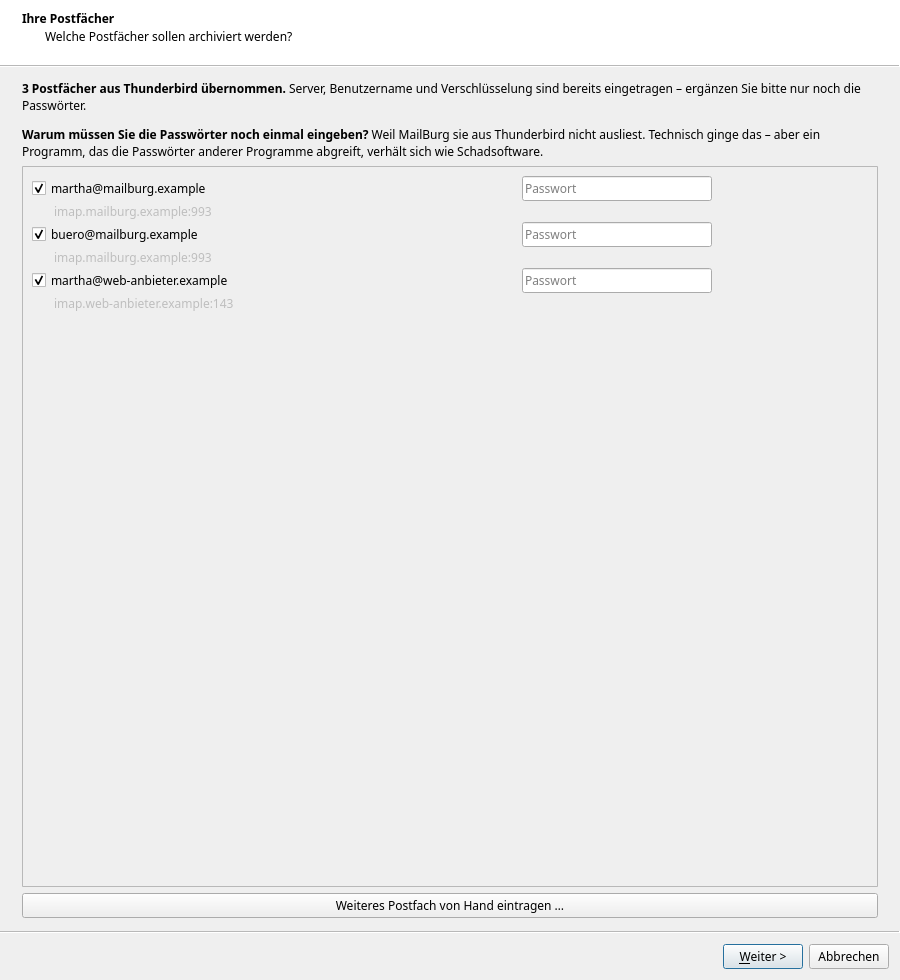
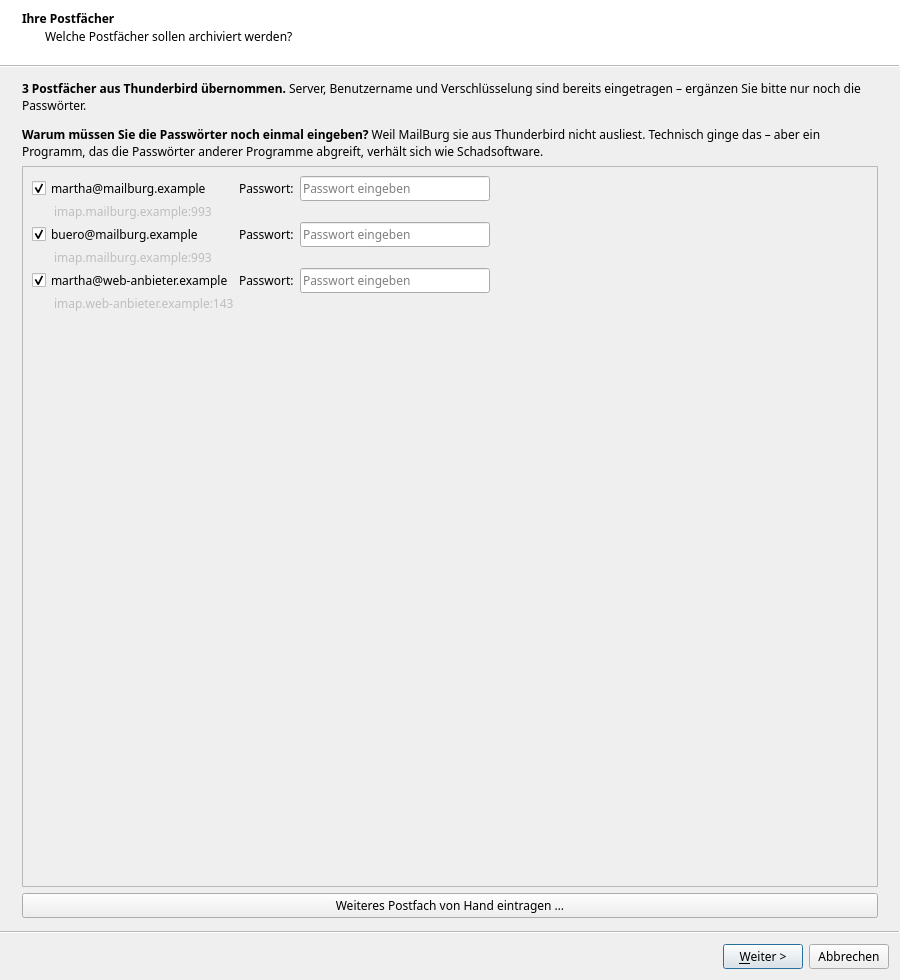
Erstes Nutzer-Feedback: drei Punkte behoben
Ein Anwender aus dem Linux-Guides-Forum hat MailBurg zum ersten Mal
eingerichtet und vier Dinge gemeldet. Drei davon sind erledigt.

**Die DBus-Meldung beim ersten Start.**

    qt.qpa.services: Failed to register with host portal
    QDBusError(... "Could not register app ID: Connection already
    associated with an application ID")

setDesktopFileName ist eine statische Methode und stand nach der
Erzeugung der QApplication. Qt meldet die Anwendung damit beim Portal
an; beim zweiten Anlauf war die DBus-Verbindung laengst registriert.
Jetzt steht die Kennung davor.

Harmlos war die Meldung immer - sie steht aber als Erstes im Terminal,
wenn jemand das Programm zum ersten Mal startet, und wer ein
Archivprogramm ausprobiert, liest so etwas als schlechtes Vorzeichen.

**Der Knopf zur Ordnerwahl war zu uebersehen.** Wortlaut: "haette ich
fast uebersehen". Er heisst jetzt "Ordner auswaehlen ...", hat ein
Ordnersymbol und ist der Vorgabeknopf der Seite. Wo das Archiv liegt,
ist die wichtigste Entscheidung des ganzen Assistenten - wer den Knopf
nicht findet, nimmt den Vorschlag, statt zu waehlen.

**Die Passwortfelder gingen unter.** Sie standen weit rechts vom
Kontonamen, weil sich die Namensspalte dehnte und die Luecke ueber den
halben Dialog klaffte. Jetzt stehen sie daneben, mit der Beschriftung
"Passwort:" davor. Wer sie nicht als Eingabe erkennt, klickt weiter und
steht danach vor einem Abruf, der nichts holt.
[…]

diff --git a/mailburg/ui/assistent.py b/mailburg/ui/assistent.py
@@ -28,6 +28,7 @@ from PySide6.QtWidgets import (
     QLineEdit,
     QMessageBox,
     QPushButton,
+    QStyle,
     QRadioButton,
     QScrollArea,
     QSpinBox,
@@ -338,7 +339,24 @@ class ArchivSeite(QWizardPage):
         # Damit Vorlesehilfen etwas anzusagen haben.
         self.pfad.setAccessibleName("Ort des Archivs")
 
-        blaettern = QPushButton("Auswählen …")
+        # **Er sah aus wie ein Beiwerk und ist der Hauptweg.** Ein
+        # Anwender aus dem Linux-Guides-Forum hat ihn beim ersten
+        # Einrichten fast übersehen. Das ist gravierender, als es klingt:
+        # Wo das Archiv liegt, ist die wichtigste Entscheidung des ganzen
+        # Assistenten – und wer den Knopf nicht findet, nimmt den
+        # Vorschlag, statt zu wählen.
+        #
+        # Ein Symbol und ein deutlicherer Text kosten nichts. Als
+        # Vorgabeknopf der Seite wird er außerdem hervorgehoben
+        # dargestellt.
+        blaettern = QPushButton("Ordner auswählen …")
+        blaettern.setIcon(
+            self.style().standardIcon(QStyle.SP_DirOpenIcon)
+        )
+        blaettern.setDefault(True)
+        blaettern.setToolTip(
+            "Einen anderen Ordner für das Archiv wählen"
+        )
         blaettern.clicked.connect(self._waehlen)
 
         zeile = QHBoxLayout()
@@ -711,9 +729,13 @@ class KontoZeile(QWidget):
         # Hälfte außerhalb, und man rollt waagerecht.
         self.beschreibung.setIndent(22)
 
+        # **Deutlich als Eingabefeld erkennbar.** Auch das kam aus dem
+        # Forum: Zwischen Ankreuzfeld und Zustandstext ging es unter.
+        # Wer es nicht als Feld erkennt, klickt weiter – und steht dann
+        # vor einem Abruf, der ohne Passwort nichts holt.
         self.passwort = QLineEdit()
         self.passwort.setEchoMode(QLineEdit.Password)
-        self.passwort.setPlaceholderText("Passwort")
+        self.passwort.setPlaceholderText("Passwort eingeben")
         self.passwort.setAccessibleName(f"Passwort für {konto.name}")
         self.passwort.setMinimumWidth(190)
         sichtbarkeit_anbieten(self.passwort)
@@ -722,13 +744,22 @@ class KontoZeile(QWidget):
         self.zustand.setWordWrap(True)
         self.zustand.setMinimumWidth(150)
 
+        # **Eine Beschriftung vor dem Feld.** Ohne sie stand dort ein
+        # leeres Kästchen weit rechts vom Kontonamen – ein Anwender aus
+        # dem Linux-Guides-Forum hat gemeldet, dass die Passwortfelder
+        # untergehen. Wer sie nicht als Eingabe erkennt, klickt weiter
+        # und steht danach vor einem Abruf, der nichts holt.
+        self.beschriftung = QLabel("Passwort:")
+        self.beschriftung.setBuddy(self.passwort)
+
         # Zwei Zeilen je Postfach: oben Name, Passwort und Zustand,
         # darunter eingerückt, worum es sich handelt.
         oben = zeile * 2
         gitter.addWidget(self.ankreuz, oben, 0)
-        gitter.addWidget(self.passwort, oben, 1)
-        gitter.addWidget(self.zustand, oben, 2)
-        gitter.addWidget(self.beschreibung, oben + 1, 0, 1, 3)
+        gitter.addWidget(self.beschriftung, oben, 1)
+        gitter.addWidget(self.passwort, oben, 2)
+        gitter.addWidget(self.zustand, oben, 3)
+        gitter.addWidget(self.beschreibung, oben + 1, 0, 1, 4)
 
         # **Der freie Platz gehört ganz nach unten.** Ohne diese Zeile
         # verteilt QGridLayout ihn gleichmäßig auf alle Zeilen - bei
@@ -769,9 +800,15 @@ class KontenSeite(QWizardPage):
         self.herkunft.setWordWrap(True)
 
         self.gitter = QGridLayout()
-        self.gitter.setColumnStretch(0, 1)   # Name darf wachsen
-        self.gitter.setColumnStretch(1, 0)   # Passwortfeld bleibt, wie es ist
-        self.gitter.setColumnStretch(2, 0)   # Zustand ebenso
+        # **Der freie Platz gehört nach rechts, nicht in die Mitte.**
+        # Vorher dehnte sich die Namensspalte, und zwischen Postfach und
+        # Passwortfeld klaffte eine Lücke über den halben Dialog – die
+        # beiden gehören aber zusammen. Jetzt stehen sie nebeneinander,
+        # und der Platz sammelt sich hinter der Zustandsspalte.
+        self.gitter.setColumnStretch(0, 0)   # Name
+        self.gitter.setColumnStretch(1, 0)   # »Passwort:«
+        self.gitter.setColumnStretch(2, 0)   # das Feld
+        self.gitter.setColumnStretch(3, 1)   # Zustand nimmt den Rest
         self.gitter.setVerticalSpacing(2)
 
         inhalt = QWidget()

diff --git a/mailburg/ui/app.py b/mailburg/ui/app.py
@@ -35,6 +35,24 @@ def main(argv: list[str] | None = None) -> int:
 
     _fehler_zeigen_statt_sterben()
 
+    # **Die Kennung vor der Anwendung setzen, nicht danach.**
+    # ``setDesktopFileName`` ist eine statische Methode; Qt meldet die
+    # Anwendung damit beim Portal des Systems an. Ruft man sie erst
+    # danach auf, ist die DBus-Verbindung längst registriert, und der
+    # zweite Versuch scheitert:
+    #
+    #     qt.qpa.services: Failed to register with host portal
+    #     QDBusError("org.freedesktop.portal.Error.Failed",
+    #     "Could not register app ID: Connection already associated
+    #     with an application ID")
+    #
+    # Die Meldung ist harmlos – sie steht aber als Erstes im Terminal,
+    # wenn jemand MailBurg zum ersten Mal startet, und wer ein
+    # Archivprogramm ausprobiert, liest so etwas als schlechtes
+    # Vorzeichen. Von einem Anwender aus dem Linux-Guides-Forum
+    # gemeldet.
+    QApplication.setDesktopFileName("de.stephanlefty.MailBurg")
+
     anwendung = QApplication(argv)
     # Muss am Objekt hängen bleiben: Ein Übersetzer, auf den niemand mehr
     # zeigt, wird weggeräumt – und die Knöpfe stehen wieder auf Englisch.
@@ -45,7 +63,6 @@ def main(argv: list[str] | None = None) -> int:
     # Windows-Fassung aufgefallen, wo es besonders auffiel.
     anwendung.setApplicationName(APP_NAME)
     anwendung.setApplicationVersion(__version__)
-    anwendung.setDesktopFileName("de.stephanlefty.MailBurg")
 
     # **Kanten für alle Fenster, nicht nur fürs Hauptfenster.** Zwischen
     # Fensterhintergrund und Inhaltsbereich liegt ein Kontrastverhältnis

diff --git a/TODO.md b/TODO.md
@@ -8,6 +8,85 @@ wurde.
 
 ## Offen
 
+### Aus dem ersten Nutzer-Feedback (Linux-Guides-Forum, 2026-09-01)
+
+Der erste Rückmelder von außerhalb. Vier Punkte, drei davon sofort
+behoben – der vierte ist Geschmack und braucht eine Entscheidung.
+
+- [ ] **Der Oberfläche fehlt Struktur.** Wörtlich: »Für meinen Geschmack
+  fehlen da ein paar Rahmen oder farbliche Abhebungen.«
+
+  Das trifft einen wunden Punkt. Die drei Bereiche des Hauptfensters –
+  Postfachbaum, Trefferliste, Vorschau – grenzen sich nur durch die
+  Trennlinien des Splitters ab, und die sind im hellen Thema kaum zu
+  sehen. `farben.bereichsrahmen()` setzt zwar Kanten, aber offenbar zu
+  zurückhaltend.
+
+  **Die Schwierigkeit dabei:** Die Farben müssen aus der Systempalette
+  kommen, sonst sitzen sie im dunklen Thema oder bei einem
+  Hochkontrast-Thema falsch. Feste Farbwerte scheiden aus. Zu prüfen
+  wäre, ob kräftigere Kanten und eine leichte Hintergrundabstufung
+  zwischen den Bereichen genügen – und ob das im dunklen Thema noch
+  trägt.
+
+  Vorher mit Stephan abstimmen: Die Farbpalette gilt bei ihm
+  projektübergreifend, ein Alleingang hier zöge Kreise.
+
+- [x] **Die DBus-Meldung beim ersten Start.** (2026-09-01)
+  `qt.qpa.services: Failed to register with host portal` –
+  `setDesktopFileName` ist statisch und stand nach der Erzeugung der
+  `QApplication`. Der zweite Registrierungsversuch scheiterte, weil die
+  Verbindung schon eine Kennung hatte. Jetzt steht sie davor.
+
+  Harmlos war die Meldung immer; sie stand aber als Erstes im Terminal,
+  wenn jemand MailBurg zum ersten Mal startet.
+
+- [x] **Der Knopf zur Ordnerwahl war zu übersehen.** (2026-09-01)
+  Heißt jetzt »Ordner auswählen …«, hat ein Ordnersymbol und ist der
+  Vorgabeknopf der Seite. Wo das Archiv liegt, ist die wichtigste
+  Entscheidung des Assistenten – wer den Knopf nicht findet, nimmt den
+  Vorschlag, statt zu wählen.
+
+- [x] **Die Passwortfelder gingen unter.** (2026-09-01) Sie standen weit
+  rechts vom Kontonamen, weil sich die Namensspalte dehnte. Jetzt stehen
+  sie daneben, mit der Beschriftung »Passwort:« davor.
+
+- [ ] **Gmail-Abruf schlug fehl.** Der Rückmelder schaut selbst nach
+  (»das schau ich mir später mal an«), aber es lohnt sich, die Ursache
+  zu erfahren: Gmail ist in der Liste unter »Noch nicht getestet« der
+  wichtigste offene Punkt, und OAuth2 ist an einem echten Konto nie
+  gelaufen. Nachfragen, sobald er sich meldet.
+
+### Angefragt
+
+- [ ] **JMAP als Abrufweg** ([RFC 8620/8621](https://jmap.io/), von
+  einem Anwender gewünscht). Der Nachfolger von IMAP: JSON über HTTPS
+  statt eines eigenen Protokolls, mit Stapelabfragen und
+  Änderungsverfolgung.
+
+  **Was dafür spricht.** Für ein Archiv ist der interessanteste Teil
+  `Email/changes`: Der Server sagt, was sich seit einem Stichpunkt
+  geändert hat. Das ist genau die Frage, die MailBurg bei jedem Abruf
+  stellt – und die es heute mit `UID n:*` und Nachfiltern beantworten
+  muss. Dazu Stapelabfragen: eine Anfrage statt eines Dialogs pro
+  Ordner.
+
+  **Was dagegen spricht.** Kaum ein Anbieter kann es. Fastmail ja,
+  Stalwart und Cyrus ja; Gmail, Outlook, GMX, Web.de, Proton: nein.
+  Für Stephans acht Postfächer brächte es heute nichts.
+
+  **Der Zuschnitt wäre eine weitere Quelle** neben `sources/imap.py`,
+  nicht ein Ersatz. Die Schnittstelle in `sources/base.py` ist dafür
+  da; sie liefert Rohnachrichten und Fundorte, und woher die kommen,
+  ist dem Archiv gleichgültig. Aufwand grob: die Anmeldung samt
+  Sitzungsobjekt, `Email/query` und `Email/get` für den Erstabruf,
+  `Email/changes` für alles danach.
+
+  **Zu klären, bevor es losgeht:** Ob es einen Anbieter gibt, bei dem
+  sich das erproben lässt. Ein zweiter Abrufweg, der nur gegen einen
+  nachgebauten Server geprüft ist, wäre dieselbe halbe Sache wie OAuth2
+  – siehe dort.
+
 ### Beim nächsten Mal zuerst
 
 - [ ] **Die Fenstergrößen am echten Bildschirm nachsehen.** Am
@@ -45,12 +124,6 @@ wurde.
   von dort kommt statt aus `tesseract`. Aber es ist ein zweiter
   Schritt, den niemand erwartet – und ein Kommentar, der etwas
   verspricht, was der Code nicht tut.
-
-- [ ] **Das Release 1.0.1 veröffentlichen.** Fassung, CHANGELOG und
-  READMEs sind committet, der Tag `v1.0.1` steht auf GitHub. Nur das
-  Veröffentlichen fehlt – dabei baut der Workflow die `MailBurg.exe`
-  von selbst. Die vorbereiteten Notizen liegen im Sitzungsordner unter
-  `scratchpad/release-1.0.1.md`.
 
 ### Für die 1.1
 

diff --git a/TODO.en.md b/TODO.en.md
@@ -7,6 +7,52 @@ down, with the date they were completed.
 
 ## Open
 
+### From the first user feedback (2026-09-01)
+
+The first report from outside. Four points, three fixed straight away.
+
+- [ ] **The interface lacks structure.** Verbatim: "for my taste a few
+  frames or colour separations are missing". The three areas of the main
+  window are separated only by splitter handles, barely visible in the
+  light theme.
+
+  **The difficulty:** colours must come from the system palette, or they
+  sit wrong in dark and high-contrast themes. Fixed colour values are
+  out.
+
+- [x] **The DBus message on first start.** (2026-09-01)
+  `setDesktopFileName` is static and stood after the `QApplication` was
+  created; the second registration attempt failed. It now comes first.
+
+- [x] **The folder-picker button was easy to miss.** (2026-09-01) Now
+  reads "Ordner auswählen …", carries a folder icon and is the page's
+  default button.
+
+- [x] **The password fields got lost.** (2026-09-01) They sat far right
+  of the account name; now they stand next to it, labelled.
+
+- [ ] **Gmail retrieval failed** for the reporter. Worth following up:
+  Gmail is the most significant entry under "not yet tested".
+
+### Requested
+
+- [ ] **JMAP as a retrieval path** ([RFC 8620/8621](https://jmap.io/),
+  requested by a user). The successor to IMAP: JSON over HTTPS, batched
+  requests, change tracking.
+
+  **For:** `Email/changes` answers exactly the question MailBurg asks on
+  every run — what changed since this point? Today that takes `UID n:*`
+  plus filtering afterwards.
+
+  **Against:** hardly any provider supports it. Fastmail, Stalwart and
+  Cyrus do; Gmail, Outlook, GMX, Web.de and Proton do not.
+
+  It would be another source alongside `sources/imap.py`, not a
+  replacement — `sources/base.py` exists for exactly that. To settle
+  first: whether there is a provider to verify it against. A second
+  retrieval path tested only against a mock would be the same half-job
+  as OAuth2.
+
 ### Next session, first
 
 - [ ] **Check window sizes on a real screen.** On 2026-08-31 Stephan
@@ -28,10 +74,6 @@ down, with the date they were completed.
   docstring of `erkennung.vorrat_aufbauen` claims the rebuild finds it
   again via the older key — the code does no such thing. After a rebuild
   you have to run `mailburg texterkennung` as a second step.
-
-- [ ] **Publish release 1.0.1.** Version, changelog and READMEs are
-  committed and the `v1.0.1` tag is on GitHub. Only publishing is left —
-  that also triggers the `MailBurg.exe` build.
 
 ### For 1.1
 
